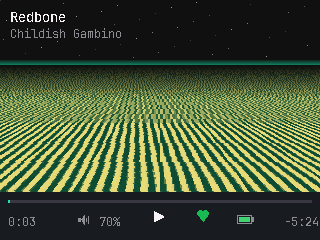
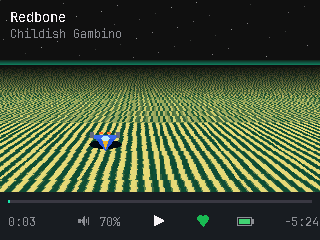
Align the strip to one centreline; put a racer on the Mode 7 plane
Every strip element had picked its own vertical position — text centre at
221, glyph at 216, heart at 215, battery at 219. Measured from the
framebuffer and aligned everything to the text's optical centreline; all six
elements now centre within a pixel of y=221.

The SNES floor gets an F-Zero-style machine: wedge body, canopy, rear wing,
flickering jets, and the shadow that seats it on the plane. It weaves and
drifts in depth on sine-sum noise, scales with distance, and is drawn after
the floor pass each frame — the full floor repaint is its eraser, and the
play-gated clock freezes it mid-drift on pause.

Claude-Session: https://claude.ai/code/session_012Gz9e6dABK2KGGRDHeWdSC

diff --git a/src/ui/modes/SnesMode.cpp b/src/ui/modes/SnesMode.cpp
@@ -31,6 +31,55 @@ inline uint16_t unswap(uint16_t c) { return (c >> 8) | (c << 8); }
 // across the bottom row, so the cover stays recognisable.
 inline int32_t depthFor(int i) { return (96 * FP) / (i + 6); }
 
+// The racer. Hand-built from primitives at a depth-driven scale: a wedge
+// body, canopy, rear wing, and a jet flame that flickers on the clock. The
+// shadow is what seats it ON the plane — without it the car reads as
+// floating in front of the screen rather than driving on the floor.
+void drawRacer(float clock, float dimf) {
+  // Smooth wander: two incommensurate sines each for x and depth.
+  const float wx = std::sin(clock * 0.61f) * 0.7f + std::sin(clock * 1.53f) * 0.3f;
+  const float wd = std::sin(clock * 0.37f + 2.0f) * 0.5f +
+                   std::sin(clock * 0.91f) * 0.2f;
+
+  const int row = 72 + static_cast<int>(wd * 26.0f);        // floor row 39..97
+  const float s = 0.55f + (row - 40) / 60.0f * 0.75f;       // depth scale
+  const int cx = 160 + static_cast<int>(wx * (60.0f + 40.0f * s));
+  const int cy = HORIZON + 1 + row;
+
+  auto C = [dimf](uint32_t rgb) {
+    return M5.Display.color565(
+        static_cast<uint8_t>(((rgb >> 16) & 0xFF) * dimf),
+        static_cast<uint8_t>(((rgb >> 8) & 0xFF) * dimf),
+        static_cast<uint8_t>((rgb & 0xFF) * dimf));
+  };
+  auto px = [s](float v) { return static_cast<int>(v * s + 0.5f); };
+
+  // Shadow, slightly ahead of the body the way a low sun would put it.
+  M5.Display.fillEllipse(cx, cy + px(3), px(16), px(4), C(0x060810));
+
+  // Rear wing.
+  M5.Display.fillRect(cx - px(15), cy - px(6), px(30), px(3), C(0x8890A0));
+  M5.Display.fillRect(cx - px(15), cy - px(9), px(4), px(6), C(0x606878));
+  M5.Display.fillRect(cx + px(11), cy - px(9), px(4), px(6), C(0x606878));
+
+  // Body: blue wedge, nose toward the viewer.
+  M5.Display.fillTriangle(cx - px(11), cy - px(5), cx + px(11), cy - px(5),
+                          cx, cy + px(9), C(0x2A5ADF));
+  M5.Display.fillRect(cx - px(11), cy - px(6), px(22), px(4), C(0x3A6AEF));
+  // Nose stripe and canopy.
+  M5.Display.fillTriangle(cx - px(3), cy - px(2), cx + px(3), cy - px(2), cx,
+                          cy + px(7), C(0xE8B020));
+  M5.Display.fillEllipse(cx, cy - px(3), px(4), px(2), C(0xB8E8FF));
+
+  // Jet flame, flickering: two frames on the clock, hidden at tiny scale.
+  if (s > 0.6f) {
+    const bool flick = (static_cast<int>(clock * 14.0f) & 1) != 0;
+    const uint32_t flame = flick ? 0xFFB030 : 0xFF6820;
+    M5.Display.fillRect(cx - px(6), cy - px(9), px(4), px(2), C(flame));
+    M5.Display.fillRect(cx + px(2), cy - px(9), px(4), px(2), C(flame));
+  }
+}
+
 }  // namespace
 
 void SnesMode::release() {
@@ -210,5 +259,11 @@ void SnesMode::tick(const AppState &st, const ViewCtx &ctx, uint32_t now_ms) {
     }
     line_->pushSprite(0, HORIZON + 1 + i);
   }
+
+  // The racer, after the floor: the full floor repaint above is its eraser.
+  // Pausing freezes the clock, which freezes both the plane and the car, and
+  // the unchanged-scroll early-out above keeps the frozen frame intact.
+  drawRacer(clock_ * 0.12f, dimf);
+
   M5.Display.endWrite();
 }

diff --git a/src/ui/StatusStrip.cpp b/src/ui/StatusStrip.cpp
@@ -83,8 +83,8 @@ void StatusStrip::drawVolume(const AppState &st) {
   M5.Display.print(vol);
 
   // Speaker glyph with level arcs, opaque plate behind it so a louder arc from
-  // the previous value never lingers.
-  const int sx = VOL_X, sy = TIME_Y + 3;
+  // the previous value never lingers. sy centres the 10px glyph on y=221.
+  const int sx = VOL_X, sy = TIME_Y + 4;
   M5.Display.fillRect(sx - 1, sy - 2, 14, 13, pal.strip);
   M5.Display.fillRect(sx, sy + 3, 3, 4, pal.dim);
   M5.Display.fillTriangle(sx + 3, sy + 4, sx + 6, sy, sx + 6, sy + 9, pal.dim);
@@ -95,7 +95,7 @@ void StatusStrip::drawVolume(const AppState &st) {
 void StatusStrip::drawBattery(const AppState &st) {
   using namespace theme;
   const int8_t pct = st.battery_pct;
-  const int x = STRIP_BATT_X, y = TIME_Y + 3;
+  const int x = STRIP_BATT_X, y = TIME_Y + 5;  // 9px box centred on y=221
 
   // Plate first, so a previous level never lingers.
   M5.Display.fillRect(x - 1, y - 2, 20, 13, pal.strip);

diff --git a/src/ui/modes/SnesMode.h b/src/ui/modes/SnesMode.h
@@ -12,6 +12,10 @@
 // speed follows volume, pausing freezes the plane, and rows fade toward the
 // sky colour with distance because real Mode 7 games did exactly that to hide
 // the horizon shimmer.
+//
+// A racer drives the plane: it weaves and drifts in depth on smooth
+// sine-sum noise, scales with distance, and is simply drawn after the floor
+// pass each frame — the floor repaint IS the erase.
 class SnesMode : public ViewMode {
  public:
   const char *name() const override { return "snes"; }

diff --git a/src/ui/Indicators.cpp b/src/ui/Indicators.cpp
@@ -152,7 +152,9 @@ void PlayGlyph::render(bool playing, uint32_t now_ms) {
   if (!cv_) return;
 
   const int ox = SCREEN_W / 2 - (GLYPH_CV_W / 2);
-  const int oy = TIME_Y - 2;
+  // Centred on the strip text's optical centreline (y=221): the digits'
+  // cap-height runs 217..225, and every non-text element aligns to its middle.
+  const int oy = TIME_Y + 2;
 
   cv_->fillSprite(pal.strip);
 

diff --git a/src/ui/StatusStrip.h b/src/ui/StatusStrip.h
@@ -63,5 +63,5 @@ class StatusStrip {
 //   0:42     vol      >      heart   batt     -3:18
 constexpr int STRIP_VOL_X = 78;
 constexpr int STRIP_HEART_X = 191;
-constexpr int STRIP_HEART_Y = 204;
+constexpr int STRIP_HEART_Y = 209;  // 24px sprite centred on y=221
 constexpr int STRIP_BATT_X = 237;
